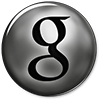
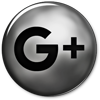
Enhancement
Add credit link for short pixel
Change claim your feed link
Change google plus icon

diff --git a/views/sfsi_option_view3.php b/views/sfsi_option_view3.php
@@ -5,17 +5,20 @@
 ?>
 <!-- Section 3 "What design & animation do you want to give your icons?" main div Start -->
 <div class="tab3">
-		<!--Content of 4-->
-        <div class="row mouse_txt sfsiplusmousetxt tab3">
+	<!--Content of 4-->
+    <div class="row mouse_txt sfsiplusmousetxt tab3">
         <p>A good & well-fitting design is not only nice to look at, but it increases chances that people will subscribe and/or share your site with friends:</p>
     
         <ul class="tab_3_list">
             <li>It comes across as <span>more professional/</span> gives your site <span>more “credit”</span></li>
-            <li>A smart automatic animation can <span>make your visitors aware of your icons</span> in an unintrusive manner</li> 
-            <!--<li>Animated icons can trigger <span>a positive emotion for </span> the viewer, getting them into a state in which they are more likely 		to subscribe</li> -->
-        </ul>
+            <li>A smart automatic animation can <span>make your visitors aware of your icons</span> in an unintrusive manner</li>        </ul>
+        
+        <p style="padding:0px;">
+            The icons have been compressed by <a href="https://shortpixel.com" target="_blank">Shortpixel.com</a> for faster loading of your site. Thank you Shortpixel!
+        </p>
+        
         <div class="row">
-    <h3>Theme options</h3>
+    	<h3>Theme options</h3>
         <!--icon themes section start -->
         <ul class="sfsiplus_tab_3_icns">
                 <li><input name="sfsi_plus_actvite_theme" <?php echo ( $option3['sfsi_plus_actvite_theme']=='default') ?  'checked="true"' : '' ;?> type="radio" value="default" class="styled"  /><label>Default</label><div class="sfsiplus_icns_tab_3"><span class="sfsiplus_row_1_1 sfsiplus_rss_section"></span><span class="sfsiplus_row_1_2 sfsiplus_email_section"></span><span class="sfsiplus_row_1_3 sfsiplus_facebook_section"></span><span class="sfsiplus_row_1_4 sfsiplus_google_section"></span><span class="sfsiplus_row_1_5 sfsiplus_twitter_section"></span><span class="sfsiplus_row_1_6 sfsiplus_share_section"></span><span class="sfsiplus_row_1_7 sfsiplus_youtube_section"></span><span class="sfsiplus_row_1_8 sfsiplus_pinterest_section"></span><span class="sfsiplus_row_1_9 sfsiplus_linkedin_section"></span> <span class="sfsiplus_row_1_10 sfsiplus_instagram_section"></span><!--<span class="sfsiplus_row_1_11 sf_section"></span>--></div></li>

diff --git a/views/sfsi_option_view2.php b/views/sfsi_option_view2.php
@@ -18,12 +18,15 @@
     </div>
     <!-- END RSS ICON -->
     <!-- EMAIL ICON -->
-    <?php $feedId = get_option('sfsi_plus_feed_id',false);?>
+    <?php
+		$feedId = get_option('sfsi_plus_feed_id',false);
+		$connectToFeed = "http://www.specificfeeds.com/?".base64_encode("userprofile=wordpress&feed_id=".$feedId);
+	?>
     <div class="row sfsiplus_email_section">
         <h2 class="sfsicls_email">Email</h2>
         <div class="inr_cont">
             
-            <p>Allows people to subscribe to your site on <a href="http://www.specificfeeds.com/widgets/emailSubscribeEncFeed/<?php echo $feedId; ?>/<?php echo base64_encode(8); ?>" target="_new">this screen</a> and receive new posts automatically. The service is 100% FREE, you get full access to the emails & interesting statistics (please <a target="_new" href="http://www.specificfeeds.com/<?php echo $feedId; ?>?getParam=feeds_claims">claim your feed</a> for that) and it also make sense if you already offer an email newsletter <a href="http://specificfeeds.com/rss" target="_new">(learn more)</a>. </p>
+            <p>Allows people to subscribe to your site on <a href="http://www.specificfeeds.com/widgets/emailSubscribeEncFeed/<?php echo $feedId; ?>/<?php echo base64_encode(8); ?>" target="_new">this screen</a> and receive new posts automatically. The service is 100% FREE, you get full access to the emails & interesting statistics (please <a target="_new" href="<?php echo $connectToFeed; ?>">claim your feed</a> for that) and it also make sense if you already offer an email newsletter <a href="http://specificfeeds.com/rss" target="_new">(learn more)</a>. </p>
             
             <p>Please pick which icon type you want to use:</p>
             <ul class="tab_2_email_sec">

diff --git a/libs/sfsi_Init_JqueryCss.php b/libs/sfsi_Init_JqueryCss.php
@@ -2,13 +2,14 @@
 /*  instalation of javascript and css  */
 function sfsiplus_plugin_back_enqueue_script()
 {
-		/* include CSS for backend  */
-  		wp_enqueue_style('thickbox');
-		wp_enqueue_style("SFSIPLUSmainCss", SFSI_PLUS_PLUGURL . 'css/sfsi-style.css' );
 		if(isset($_GET['page']))
 		{
 			if($_GET['page'] == 'sfsi-plus-options')
 			{
+				/* include CSS for backend  */
+				wp_enqueue_style('thickbox');
+				wp_enqueue_style("SFSIPLUSmainCss", SFSI_PLUS_PLUGURL . 'css/sfsi-style.css' );
+				
 				wp_enqueue_style("SFSIPLUSJqueryCSS", SFSI_PLUS_PLUGURL . 'css/jquery-ui-1.10.4/jquery-ui-min.css' );
 				wp_enqueue_style("SFSIPLUSColorCss", SFSI_PLUS_PLUGURL . 'css/colorpicker/css/colorpicker-min.css' );
 				wp_enqueue_style("SFSIPLUSLayoutCss", SFSI_PLUS_PLUGURL . 'css/colorpicker/css/layout-min.css' );
